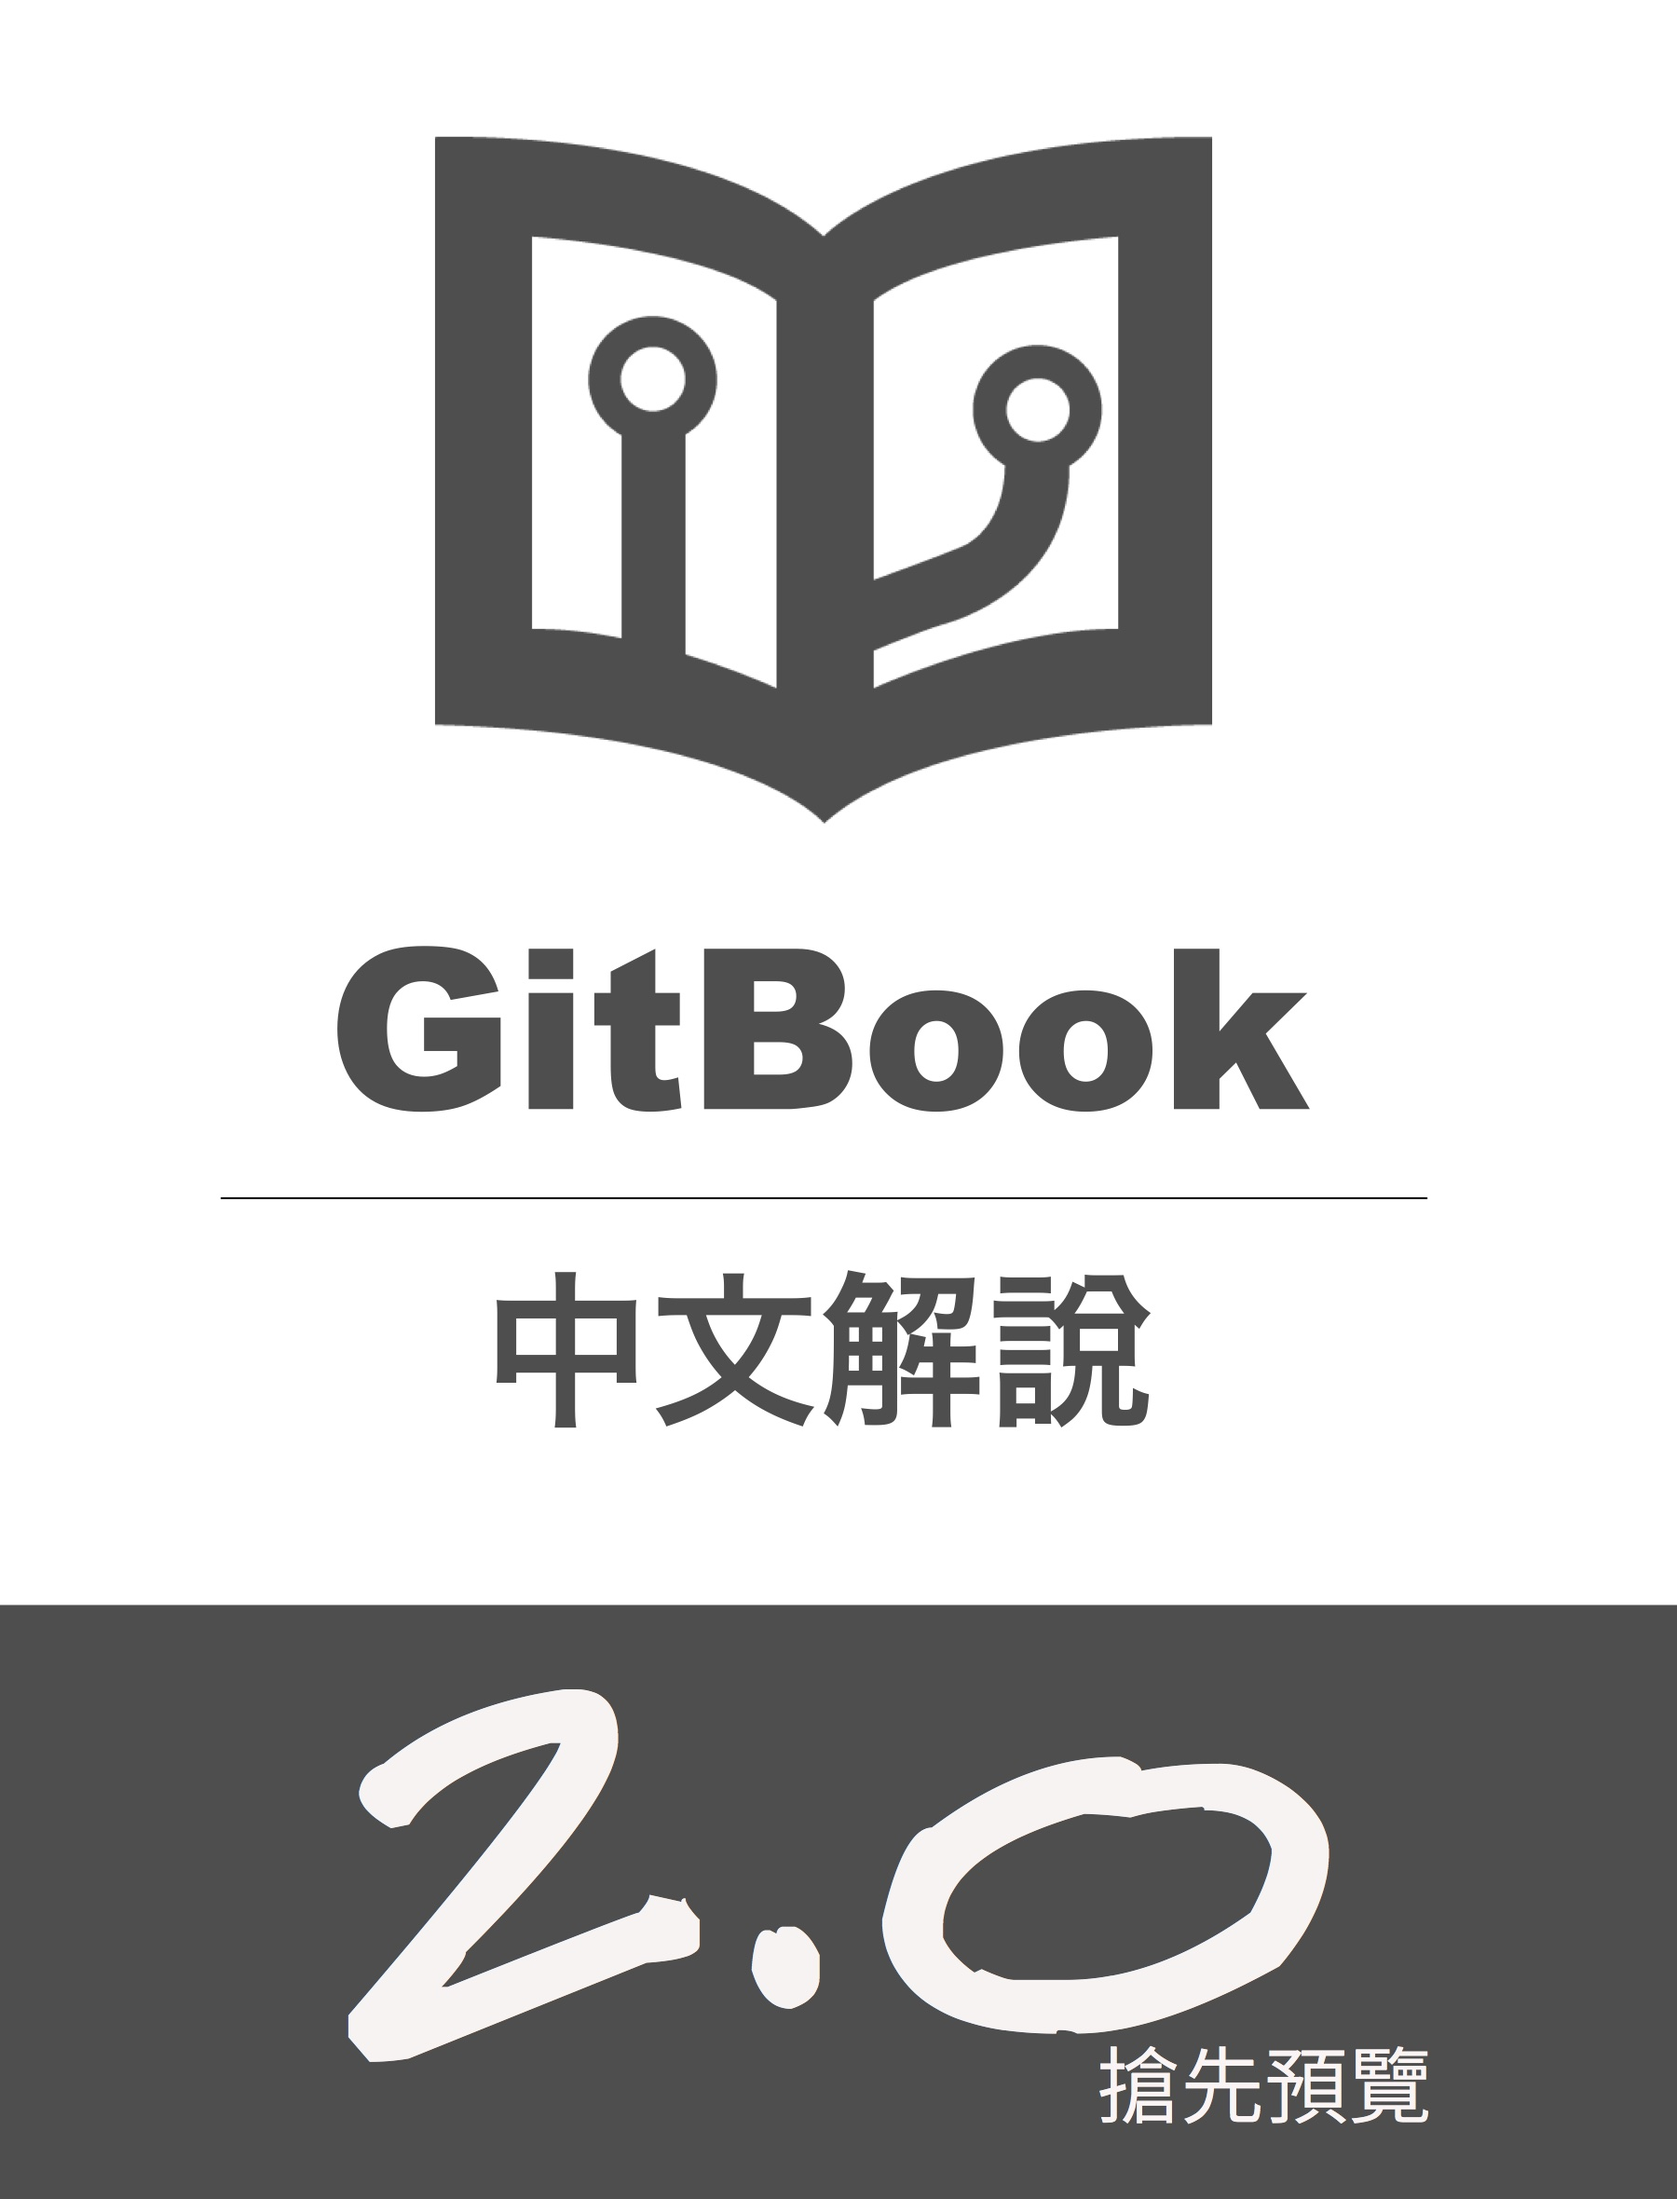
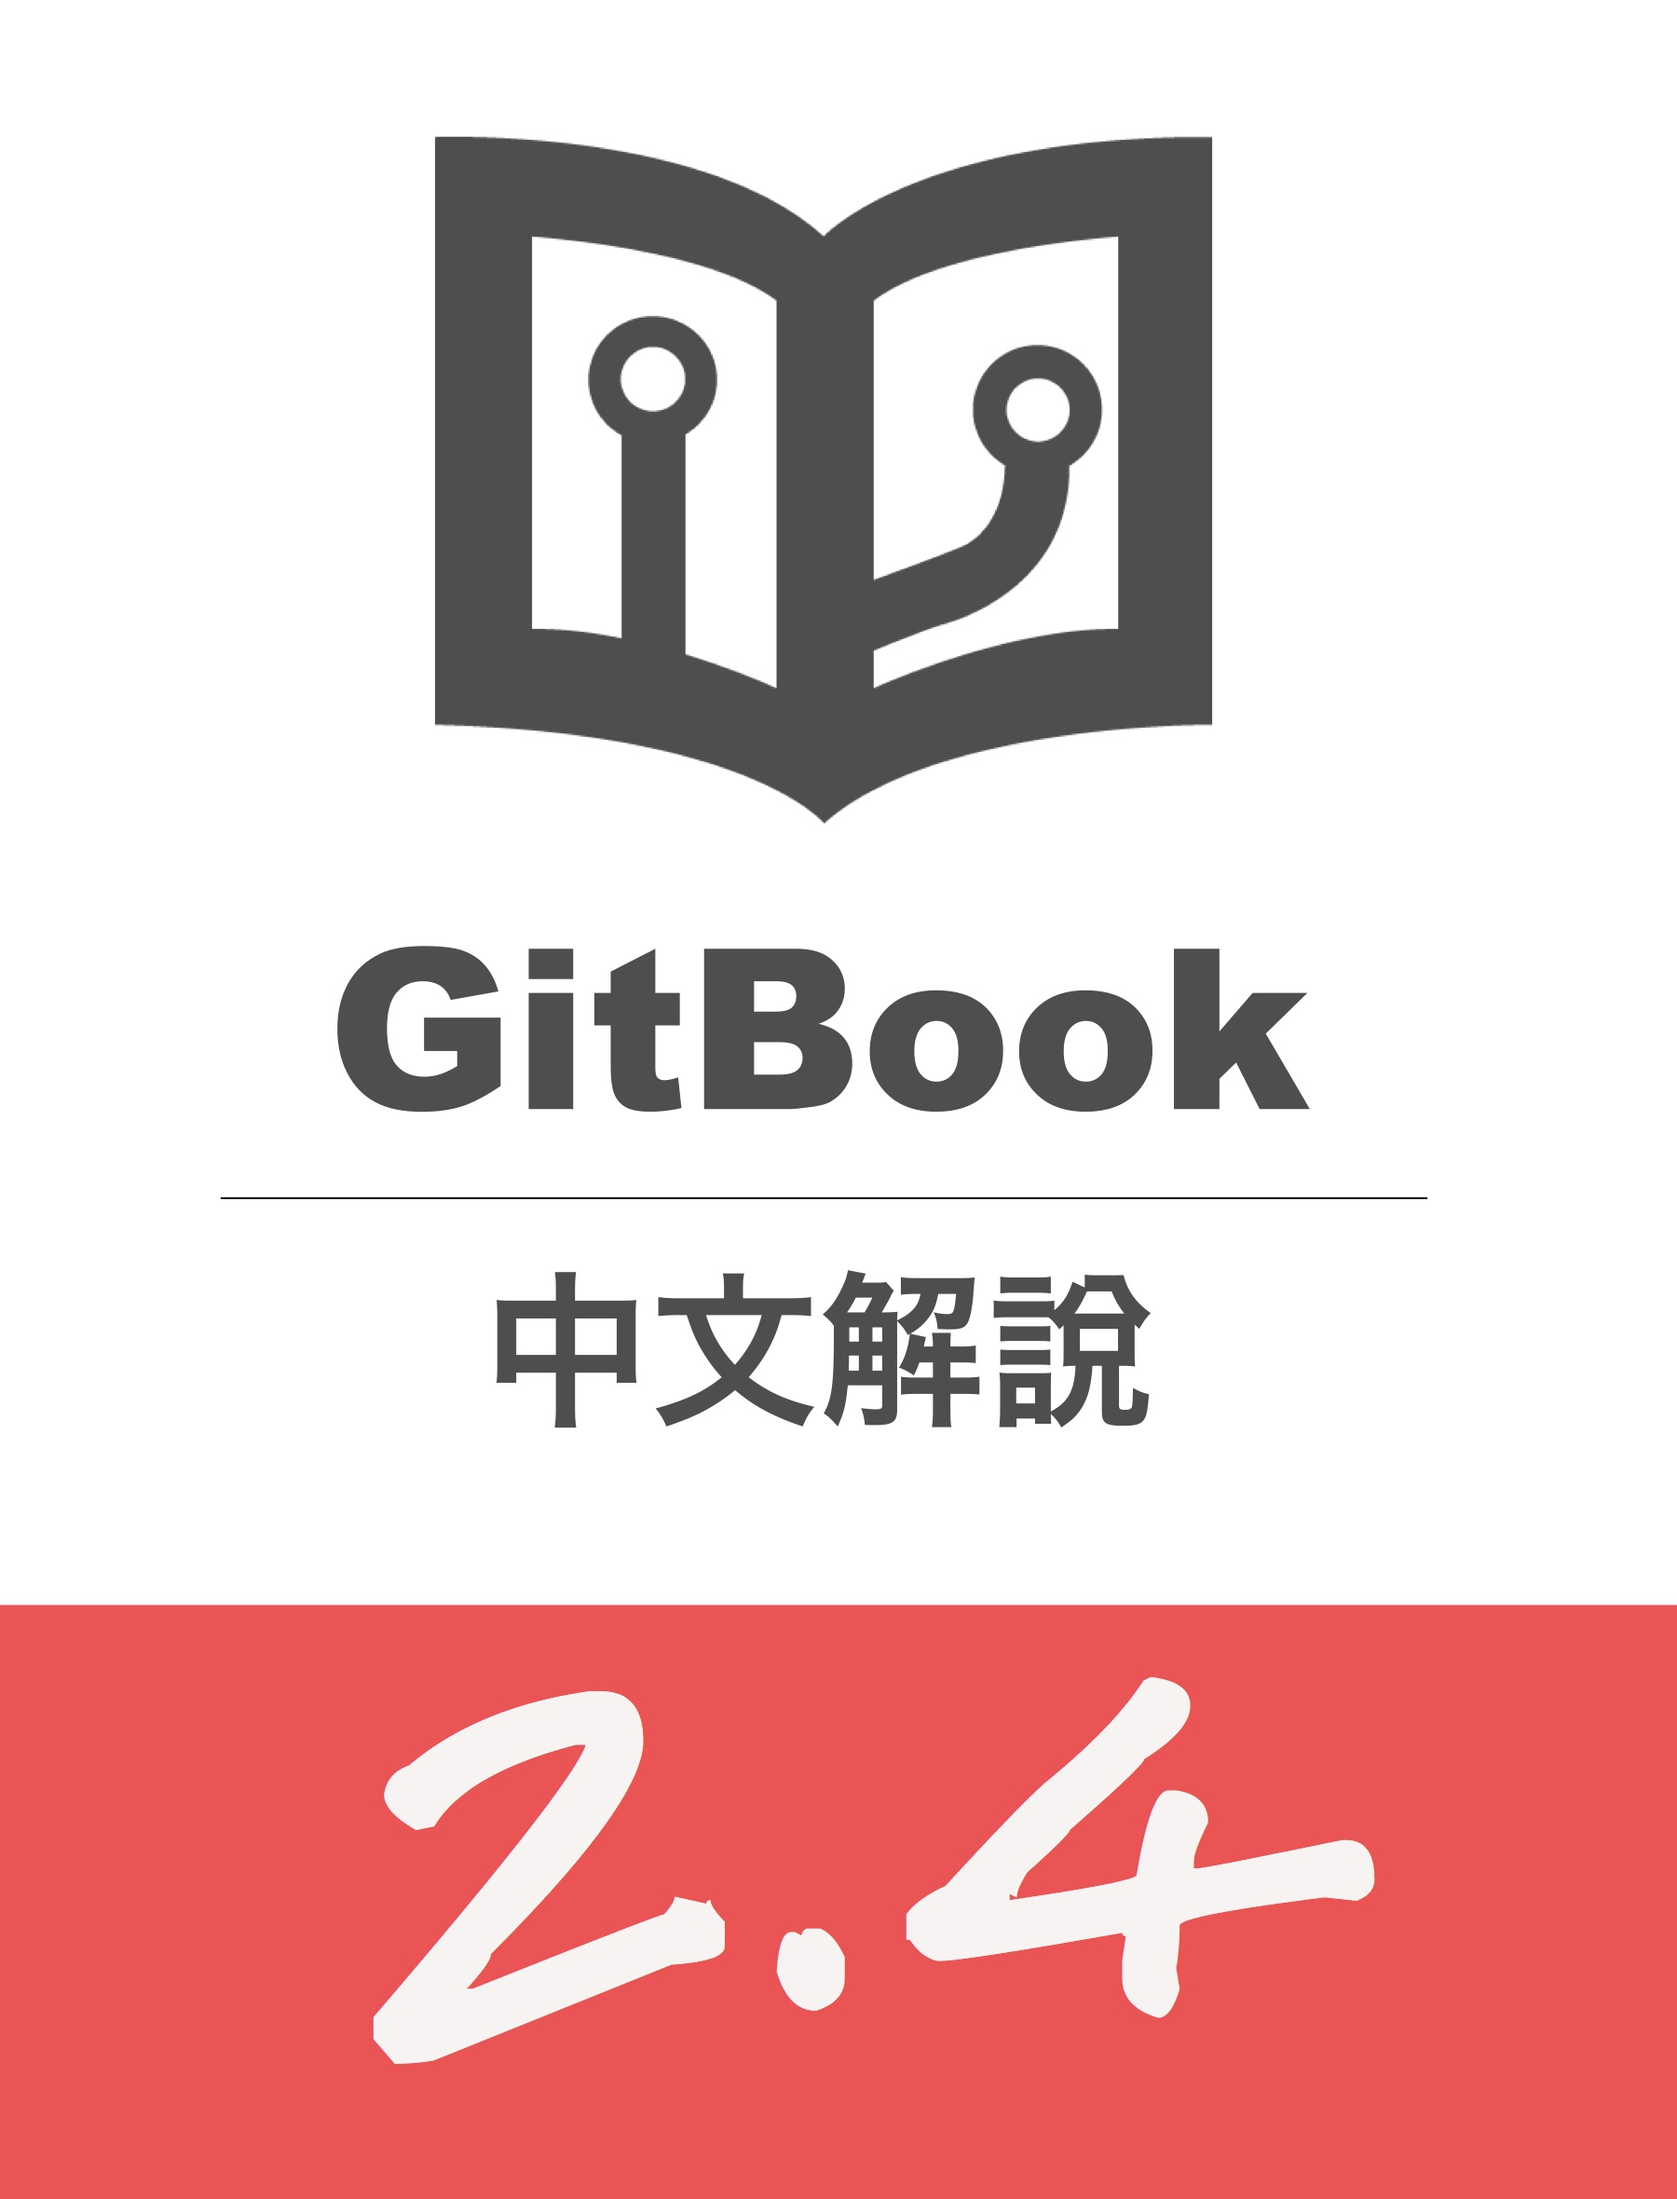
update to 2.4

Changed region(s): [[0.0, 0.7114, 1.0, 1.0]]

diff --git a/README.md b/README.md
@@ -1,4 +1,4 @@
-## GitBook 2.4
+## GitBook 中文解說 - 2.4
 
 `2015/09/15 更新`
 
